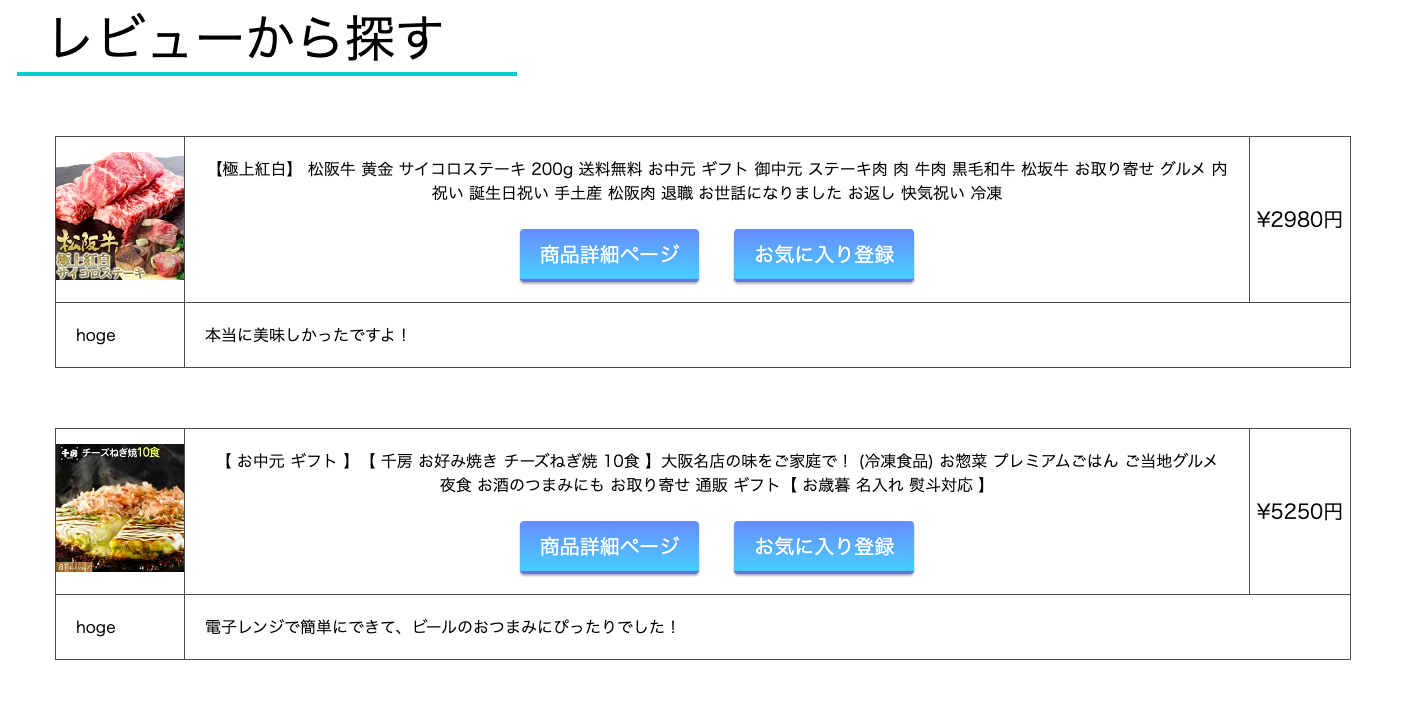
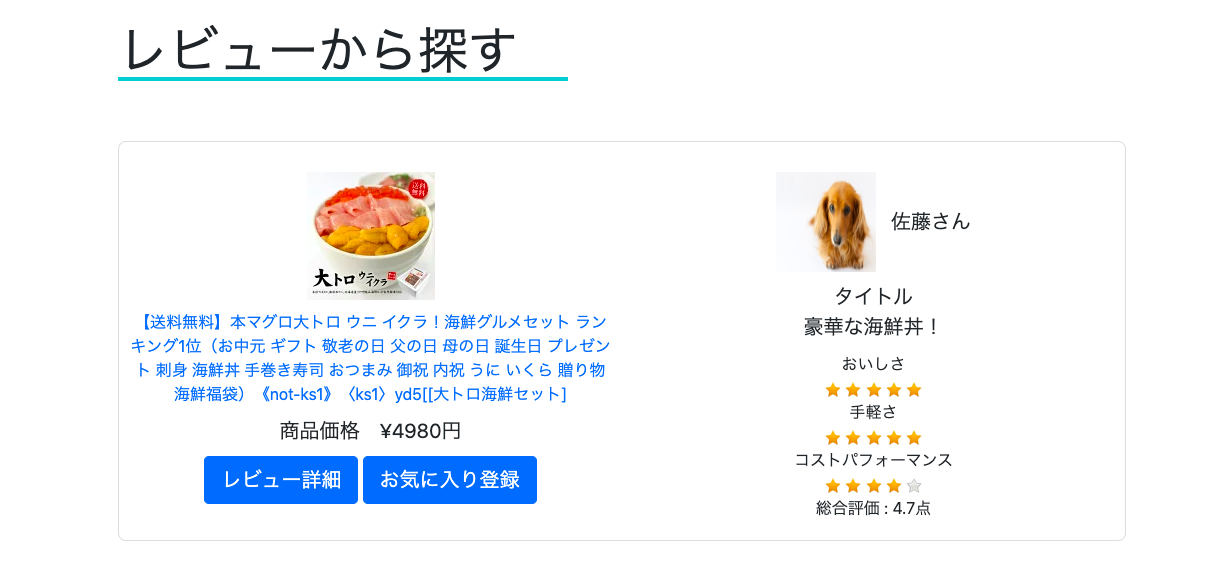
commit

diff --git a/app/assets/stylesheets/_items.scss b/app/assets/stylesheets/_items.scss
@@ -62,6 +62,7 @@
       justify-content: center;
       align-items: center;
       font-size: 1.5rem;
+      font-family: "ヒラギノ丸ゴ ProN";
     }
     &__input{
       width: 70%;
@@ -113,10 +114,11 @@
           margin: 0 auto;
         }
         &__submit{
+          font-size: 1.2rem;
+          font-family: "ヒラギノ丸ゴ ProN";
           border-width: 0;
           background-color: white;
           border-color: white;
-          font-size: 17px;
           height: 40px;
           cursor: pointer;
         }
@@ -211,6 +213,10 @@
             padding: 20px;
           }
         }
+        .review-container__box__content2{
+          padding: 50px 0 150px;
+          font-size: 30px;
+        }
       }
     }
   }
@@ -275,6 +281,10 @@
         vertical-align: middle;
       }
     }
+  }
+  .item-box2{
+    padding: 50px 0 150px;
+    font-size: 30px;
   }
 }
 
@@ -349,58 +359,62 @@
         &__title{
         }
         &__content{
-          display: flex;
-          text-align: center;
-          margin: 30px 0;
           border: 1px solid #ddd;
           border-radius: 8px;
-          &__box1{
-            width: 40vw;
-            .create-at{
-              margin: 10px;
-            }
-            .avater-box{
-              display: flex;
-              justify-content: center;
-              align-items: center;
-              .avater{
+          padding: 15px;
+          margin: 30px 0;
+          &__container{
+            display: flex;
+            text-align: center;
+            &__box1{
+              width: 40vw;
+              .create-at{
+                margin: 10px;
+              }
+              .avater-box{
+                display: flex;
+                justify-content: center;
+                align-items: center;
+                .avater{
 
+                }
+                .reviewer{
+                  margin-left: 15px;
+                }
               }
-              .reviewer{
-                margin-left: 15px;
+              &__average{
+                margin: 10px;
+              }
+              &__title{
+                margin: 10px;
+                p {
+                  font-size: 17px;
+                }
               }
             }
-            &__average{
-              margin: 10px;
+            &__box2{
+              width: 40vw;
+              &__star{
+                p{
+                  margin-top: 10px;
+                }
+              }
             }
+          }
+          &__container2{
+            display: flex;
+            justify-content: center;
             &__title{
-              margin: 10px;
-              p {
-                font-size: 17px;
-              }
-            }
-            &__content{
-              margin: 10px;
+              width: 50%;
+              margin: 15px;
               font-size: 25px;
               p {
                 font-size: 17px;
               }
             }
             &__image{
-
-            }
-          }
-          &__box2{
-            width: 40vw;
-            &__star{
-              p{
-                margin-top: 10px;
-              }
-            }
-            .review-container__box__destroy{
-              a{
-                margin: 15px;
-              }
+              width: 50%;
+              margin: 15px;
             }
           }
         }

diff --git a/app/assets/stylesheets/_reviews.scss b/app/assets/stylesheets/_reviews.scss
@@ -167,7 +167,7 @@
             display: flex;
             justify-content: center;
             &__title{
-              width: 50wh;
+              width: 50%;
               margin: 15px;
               font-size: 25px;
               p {
@@ -175,7 +175,7 @@
               }
             }
             &__image{
-              width: 50wh;
+              width: 50%;
               margin: 15px;
             }
           }
